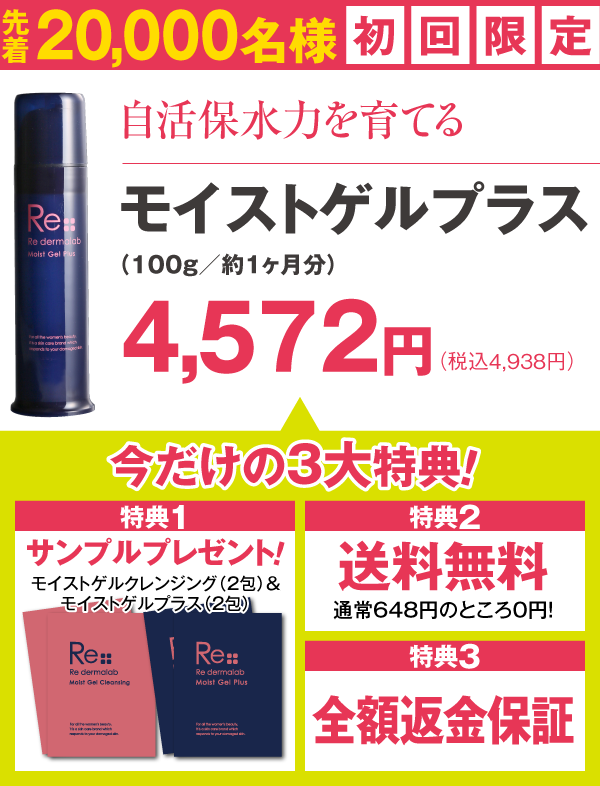
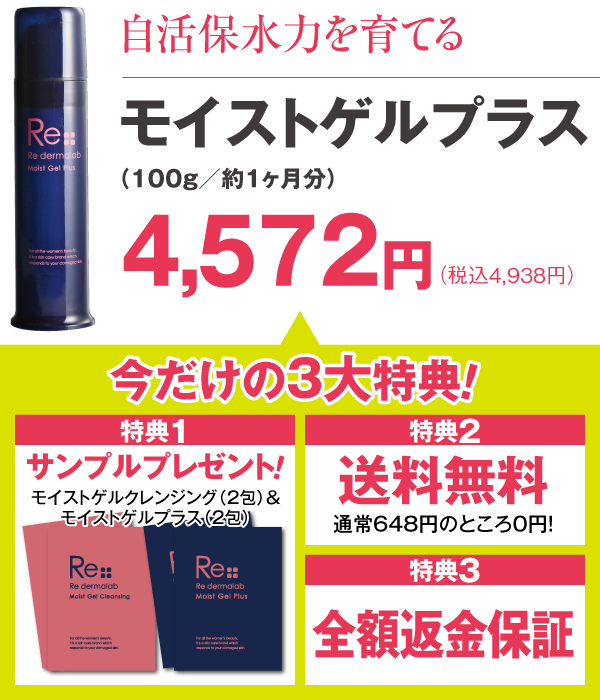
スマホ版ゲルのオファー部分の端が切れているのを修正。ついでに、headerとsectionに分割

diff --git a/sp/lp.html b/sp/lp.html
@@ -19,10 +19,15 @@
                     <h1><img src="images/gel/header.jpg" alt="『モイストゲルプラス』自活保水力が変える！深い手応え。 @コスメクチコミランキング オールインワン化粧品部門第１位（集計期間2013/1/1~2013/6/30） 潤い・ハリ・弾力・つや・透明感・キメ"></h1>
                 </header><!-- /header -->
                 <section>
-                    <img src="images/gel/banner-offer.png" alt="先着20,000名様初回限定 自活保水力を育てる モイストゲルプラス（100g/約１ヶ月分） 4572円（税込4938円） 今だけの３大特典！ 特典1. サンプルプレゼント！（モイストゲルクレンジング２包、モイストゲルプラス２包） 特典2. 送料無料 特典3.全額返金保証">
-                    <div class="btn btn-offer">
-                        <a href="http://shop.re-dermalab.jp/shop/add_to_cart/?item_qty_23[qty]=1&item_id_23=order&return_url=http://re-dermalab.jp/sp/lp.html"><img src="images/common/button-offer-orange.png" alt="ご注文はコチラ"></a>
-                    </div>
+                    <header>
+                        <h2><img src="images/gel/header-offer.jpg" alt="先着20,000名様初回限定"></h2>
+                    </header><!-- /header -->
+                    <section>
+                        <img src="images/gel/banner-offer.png" alt="自活保水力を育てる モイストゲルプラス（100g/約１ヶ月分） 4572円（税込4938円） 今だけの３大特典！ 特典1. サンプルプレゼント！（モイストゲルクレンジング２包、モイストゲルプラス２包） 特典2. 送料無料 特典3.全額返金保証">
+                        <div class="btn btn-offer">
+                            <a href="http://shop.re-dermalab.jp/shop/add_to_cart/?item_qty_23[qty]=1&item_id_23=order&return_url=http://re-dermalab.jp/sp/lp.html"><img src="images/common/button-offer-orange.png" alt="ご注文はコチラ"></a>
+                        </div>
+                    </section>
                 </section>
             </section>
             <section class="main-column">
@@ -47,10 +52,15 @@
                 </section>
             </div>
             <section class="main-column">
-                <img src="images/gel/banner-offer.png" alt="先着20,000名様初回限定 自活保水力を育てる モイストゲルプラス（100g/約１ヶ月分） 4572円（税込4938円） 今だけの３大特典！ 特典1. サンプルプレゼント！（モイストゲルクレンジング２包、モイストゲルプラス２包） 特典2. 送料無料 特典3.全額返金保証">
-                <div class="btn btn-offer">
-                    <a href="http://shop.re-dermalab.jp/shop/add_to_cart/?item_qty_23[qty]=1&item_id_23=order&return_url=http://re-dermalab.jp/sp/lp.html"><img src="images/common/button-offer-orange.png" alt="ご注文はコチラ"></a>
-                </div>
+                <header>
+                    <h2><img src="images/gel/header-offer.jpg" alt="先着20,000名様初回限定"></h2>
+                </header><!-- /header -->
+                <section>
+                    <img src="images/gel/banner-offer.png" alt="自活保水力を育てる モイストゲルプラス（100g/約１ヶ月分） 4572円（税込4938円） 今だけの３大特典！ 特典1. サンプルプレゼント！（モイストゲルクレンジング２包、モイストゲルプラス２包） 特典2. 送料無料 特典3.全額返金保証">
+                    <div class="btn btn-offer">
+                        <a href="http://shop.re-dermalab.jp/shop/add_to_cart/?item_qty_23[qty]=1&item_id_23=order&return_url=http://re-dermalab.jp/sp/lp.html"><img src="images/common/button-offer-orange.png" alt="ご注文はコチラ"></a>
+                    </div>
+                </section>
             </section>
 
             <section class="main-column">
@@ -103,10 +113,15 @@
                 </section>
             </div>
             <section class="main-column">
-                <img src="images/gel/banner-offer.png" alt="先着20,000名様初回限定 自活保水力を育てる モイストゲルプラス（100g/約１ヶ月分） 4572円（税込4938円） 今だけの３大特典！ 特典1. サンプルプレゼント！（モイストゲルクレンジング２包、モイストゲルプラス２包） 特典2. 送料無料 特典3.全額返金保証">
-                <div class="btn btn-offer">
-                    <a href="http://shop.re-dermalab.jp/shop/add_to_cart/?item_qty_23[qty]=1&item_id_23=order&return_url=http://re-dermalab.jp/sp/lp.html"><img src="images/common/button-offer-orange.png" alt="ご注文はコチラ"></a>
-                </div>
+                <header>
+                    <h2><img src="images/gel/header-offer.jpg" alt="先着20,000名様初回限定"></h2>
+                </header><!-- /header -->
+                <section>
+                    <img src="images/gel/banner-offer.png" alt="自活保水力を育てる モイストゲルプラス（100g/約１ヶ月分） 4572円（税込4938円） 今だけの３大特典！ 特典1. サンプルプレゼント！（モイストゲルクレンジング２包、モイストゲルプラス２包） 特典2. 送料無料 特典3.全額返金保証">
+                    <div class="btn btn-offer">
+                        <a href="http://shop.re-dermalab.jp/shop/add_to_cart/?item_qty_23[qty]=1&item_id_23=order&return_url=http://re-dermalab.jp/sp/lp.html"><img src="images/common/button-offer-orange.png" alt="ご注文はコチラ"></a>
+                    </div>
+                </section>
             </section>
         </article>
         <nav class="main-column">
